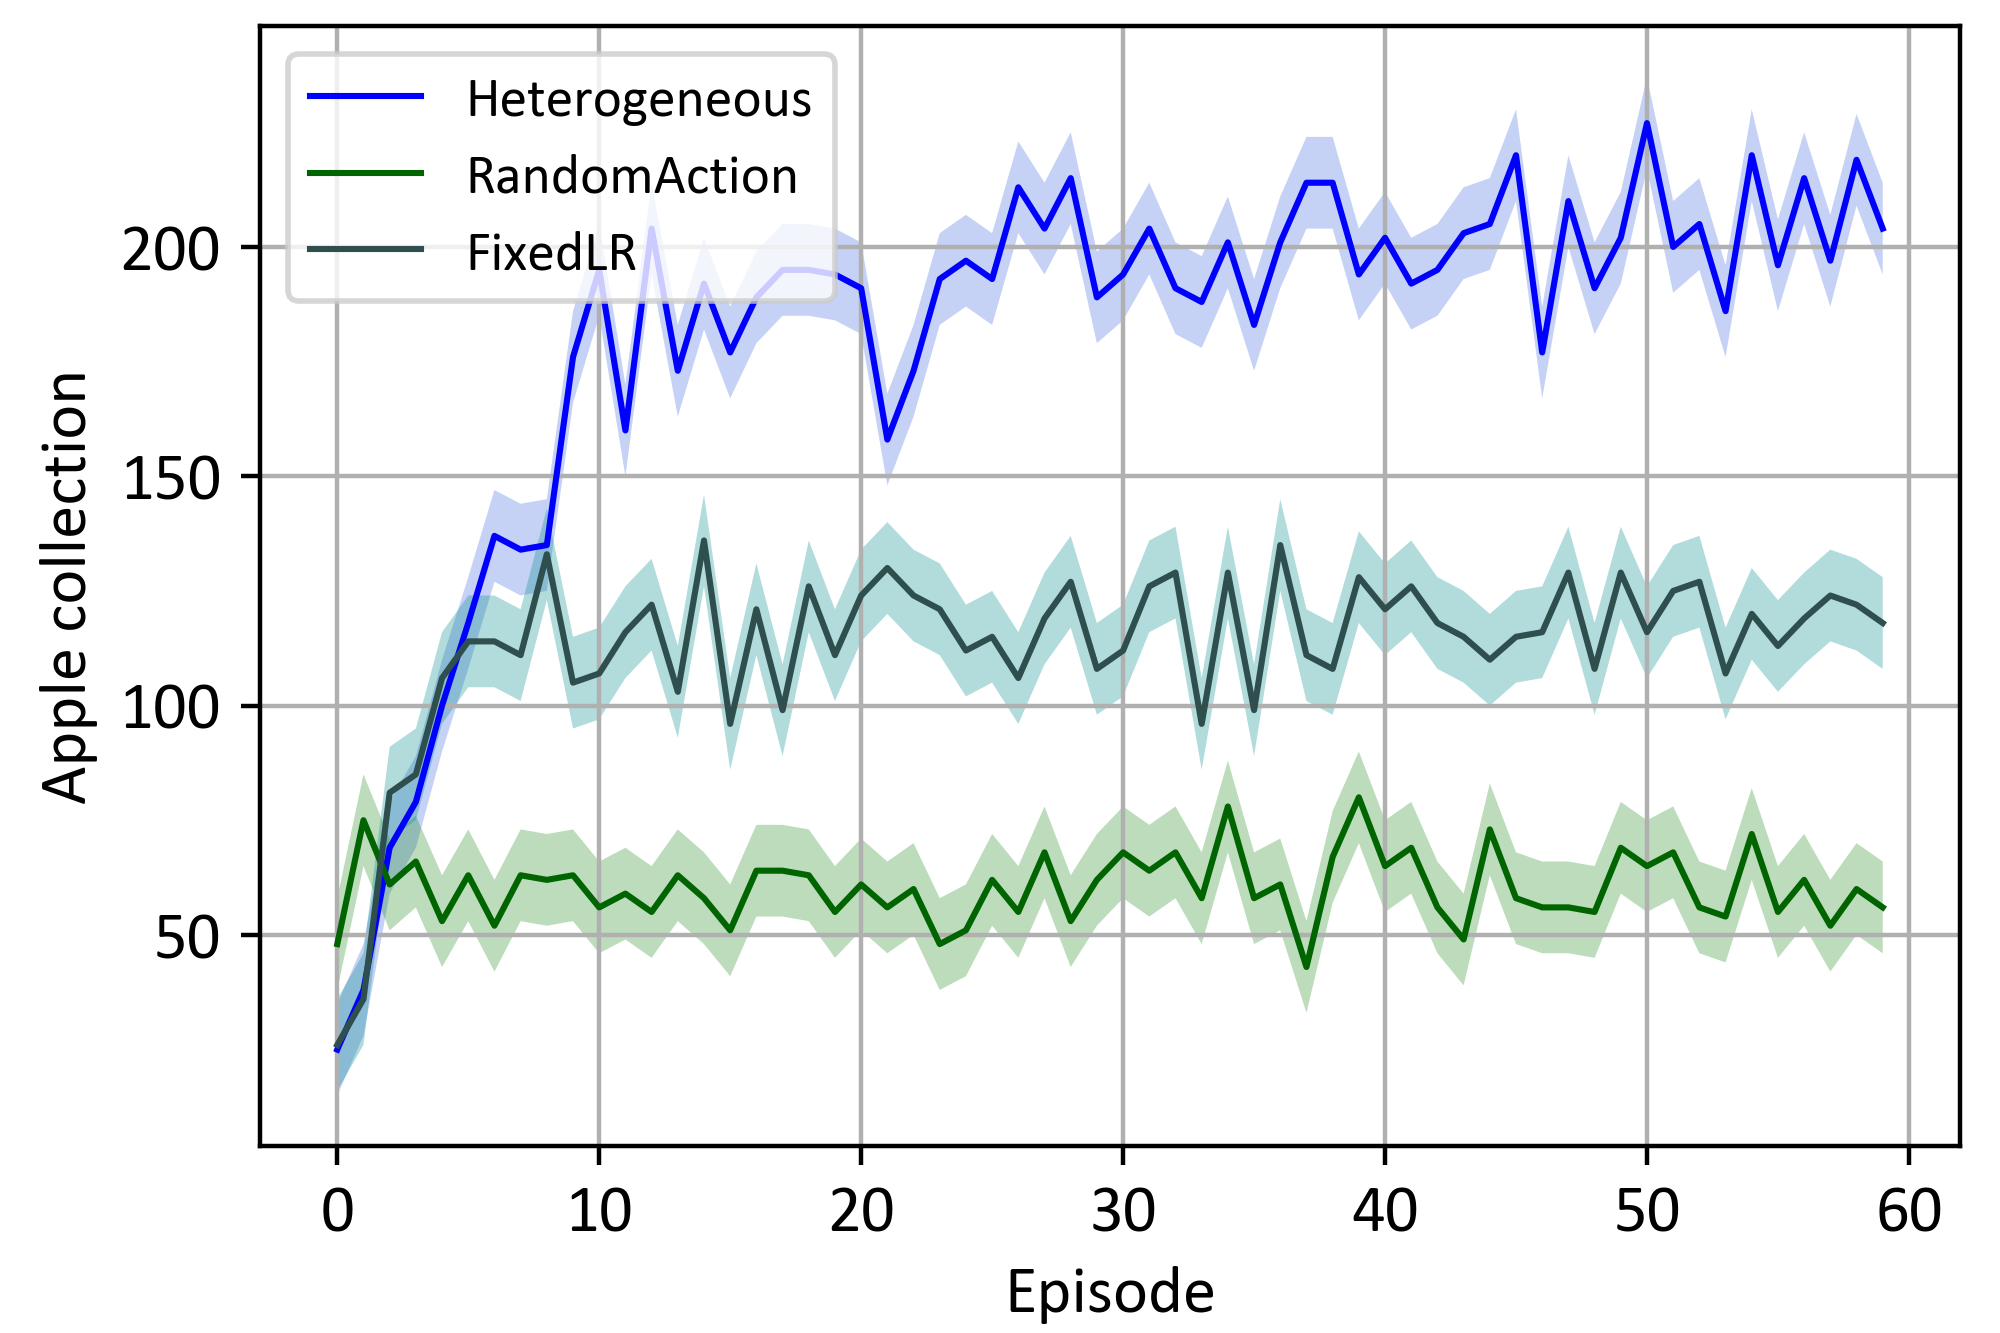
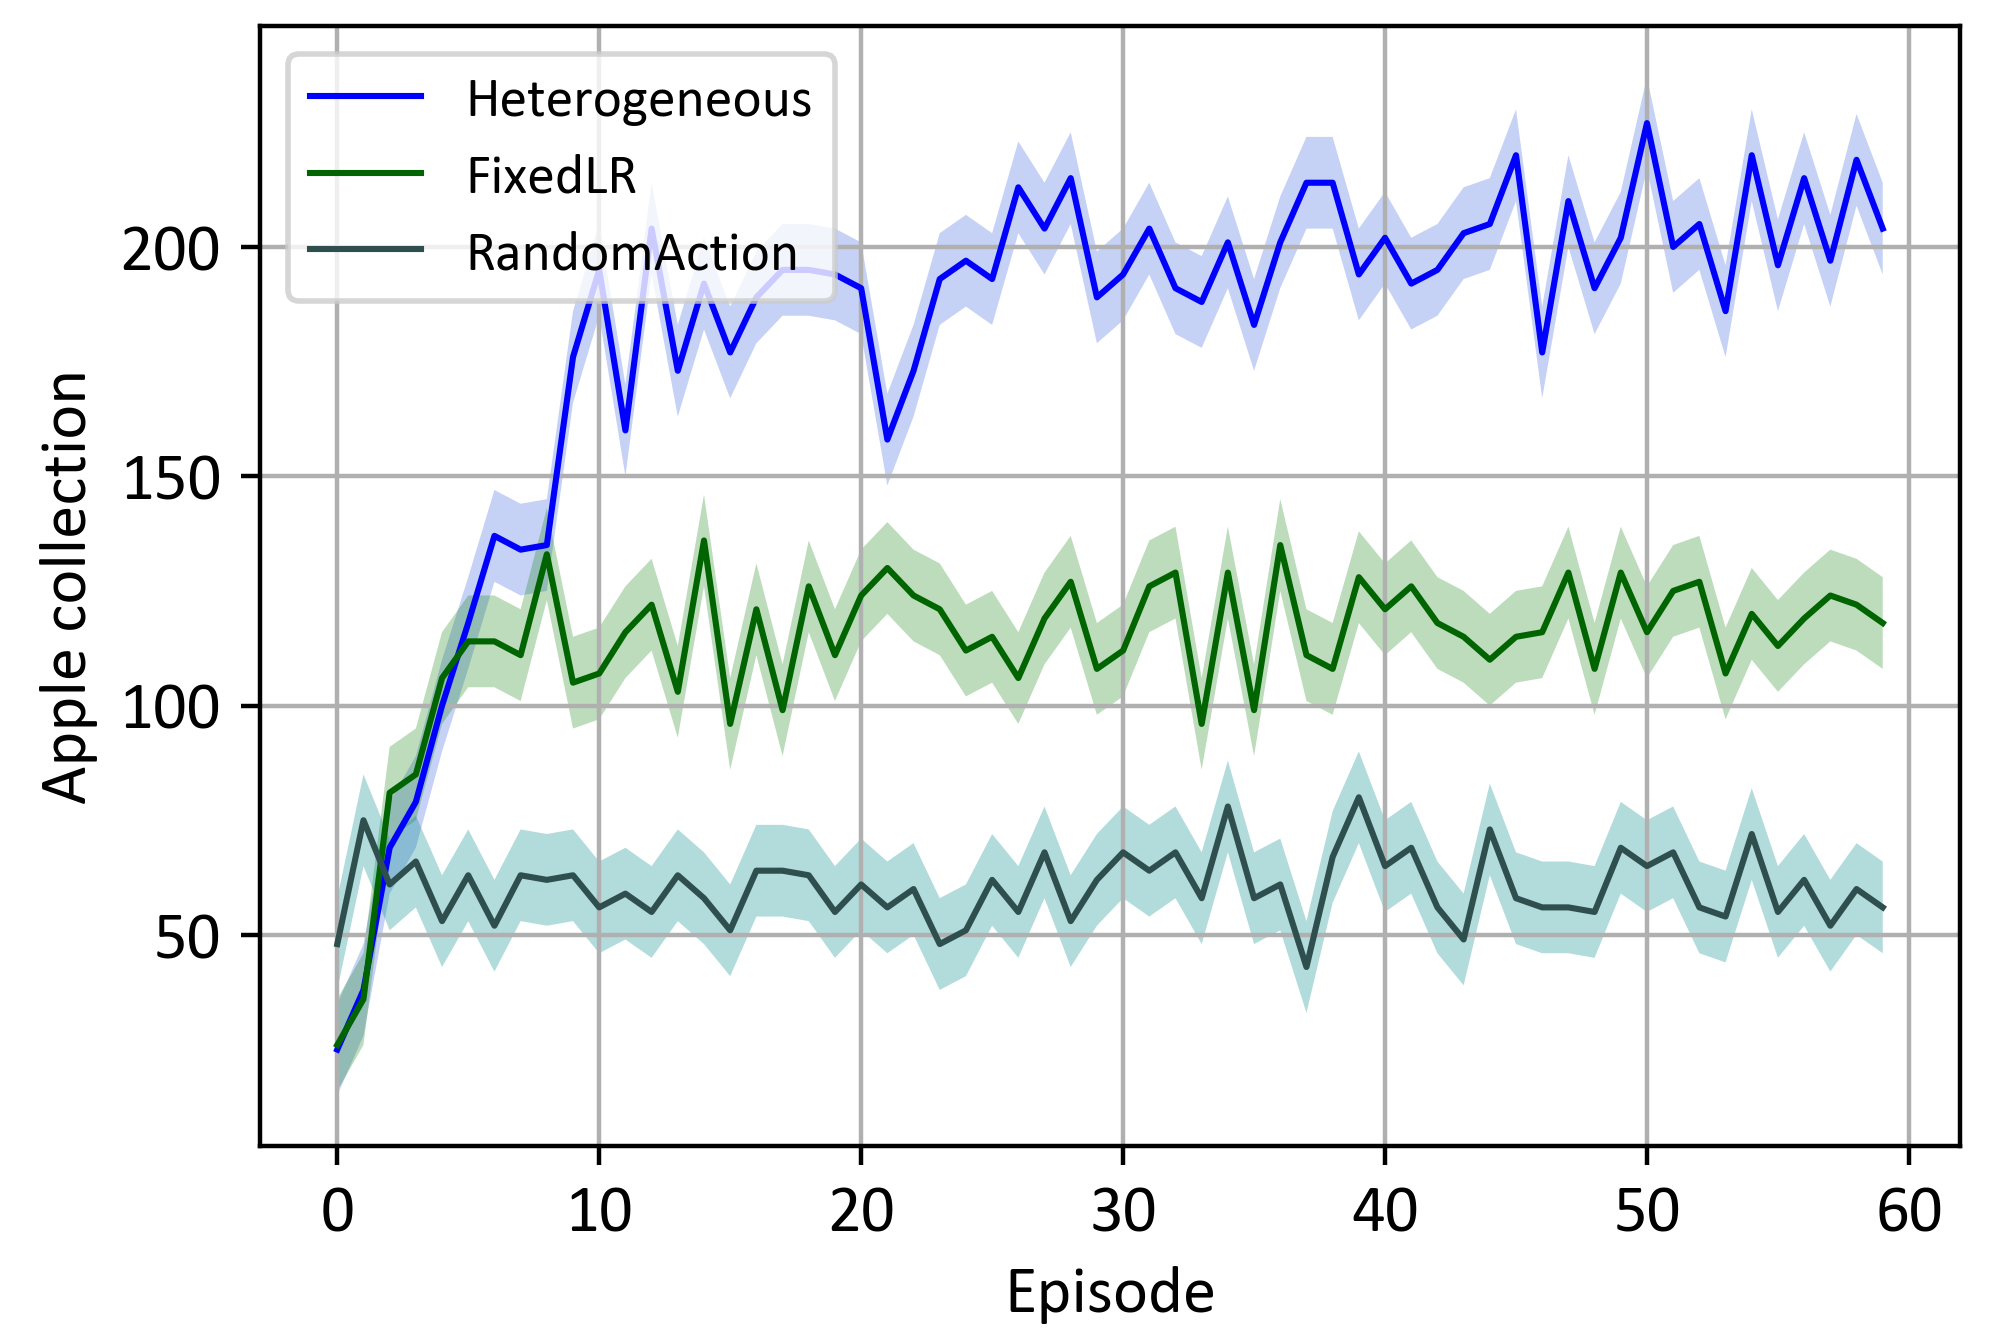
new

Changed region(s): [[0.155, 0.3998, 0.961, 0.7997], [0.248, 0.123, 0.403, 0.2153]]

diff --git a/Draw.py b/Draw.py
@@ -24,7 +24,7 @@ DPI = 400
 
 
 # 折线图绘图设置(数据列表, y轴名称, x轴名称, 图像存储地址, 标签列表)
-def draw_list(plot_list=None, y_lable='', x_lable='', figPath='', label_list=None, colorIndex=0):
+def draw_list(plot_list=None, y_lable='', x_lable='', figPath='', label_list=None, colorIndex=None):
     # plt.rc对全图字体进行统一修改
     plt.figure(1)  # 图像编号
 
@@ -47,18 +47,16 @@ def draw_list(plot_list=None, y_lable='', x_lable='', figPath='', label_list=Non
     FillColor1 = ['wheat', 'cornflowerblue']
     colors2 = ['darkorange', 'r',  'b', 'darkgreen', 'darkslategray', 'purple']
     FillColor2 = ['tan', 'lightcoral', 'royalblue', 'forestgreen', 'darkcyan', 'violet']
-    colors2 = colors2[colorIndex:]
-    FillColor2 = FillColor2[colorIndex:]
 
     for i in range(len(plot_list)):
         updata = [j + 10 for j in plot_list[i]]
         downdata = [j - 10 for j in plot_list[i]]
-        if len(plot_list) <= 2 and not colorIndex:
+        if not colorIndex:
             plt.plot(np.arange(len(plot_list[i])), plot_list[i], color=colors1[i], linewidth=1.1)
             plt.fill_between(np.arange(len(plot_list[i])), downdata, updata, facecolor=FillColor1[i], alpha=0.3)
         else:
-            plt.plot(np.arange(len(plot_list[i])), plot_list[i], color=colors2[i], linewidth=1.1)
-            plt.fill_between(np.arange(len(plot_list[i])), downdata, updata, facecolor=FillColor2[i], alpha=0.3)
+            plt.plot(np.arange(len(plot_list[i])), plot_list[i], color=colors2[colorIndex[i]], linewidth=1.1)
+            plt.fill_between(np.arange(len(plot_list[i])), downdata, updata, facecolor=FillColor2[colorIndex[i]], alpha=0.3)
     ax.set_ylabel(y_lable)  # x轴标签
     ax.set_xlabel(x_lable)  # y轴标签
     # 图例设置

diff --git a/Draw_plot.py b/Draw_plot.py
@@ -39,14 +39,14 @@ x_label = 'Episode'  # x轴名称
 label_list = ['Homogeneous_Low', 'Homogeneous_High', 'Heterogeneous', 'RandomAction']
 figPath = 'Apples.png'  # 存储图像的地址
 
-draw_list(plot_list=compareList, y_lable=y_label, x_lable=x_label, figPath=figPath, label_list=label_list)
+draw_list(plot_list=compareList, y_lable=y_label, x_lable=x_label, figPath=figPath, label_list=label_list, colorIndex=[0, 1, 2, 4])
 
 
 "改变学习率与固定学习率"
-compareList = [Model_3, Model_5, Model_4]
+compareList = [Model_3, Model_4, Model_5]
 y_label = 'Apple collection'  # y坐标轴名称
 x_label = 'Episode'  # x轴名称
-label_list = ['Heterogeneous', 'RandomAction', 'FixedLR']
+label_list = ['Heterogeneous', 'FixedLR', 'RandomAction']
 figPath = 'Apples_lr.png'  # 存储图像的地址
 
-draw_list(plot_list=compareList, y_lable=y_label, x_lable=x_label, figPath=figPath, label_list=label_list, colorIndex=2)
+draw_list(plot_list=compareList, y_lable=y_label, x_lable=x_label, figPath=figPath, label_list=label_list, colorIndex=[2, 3, 4])
